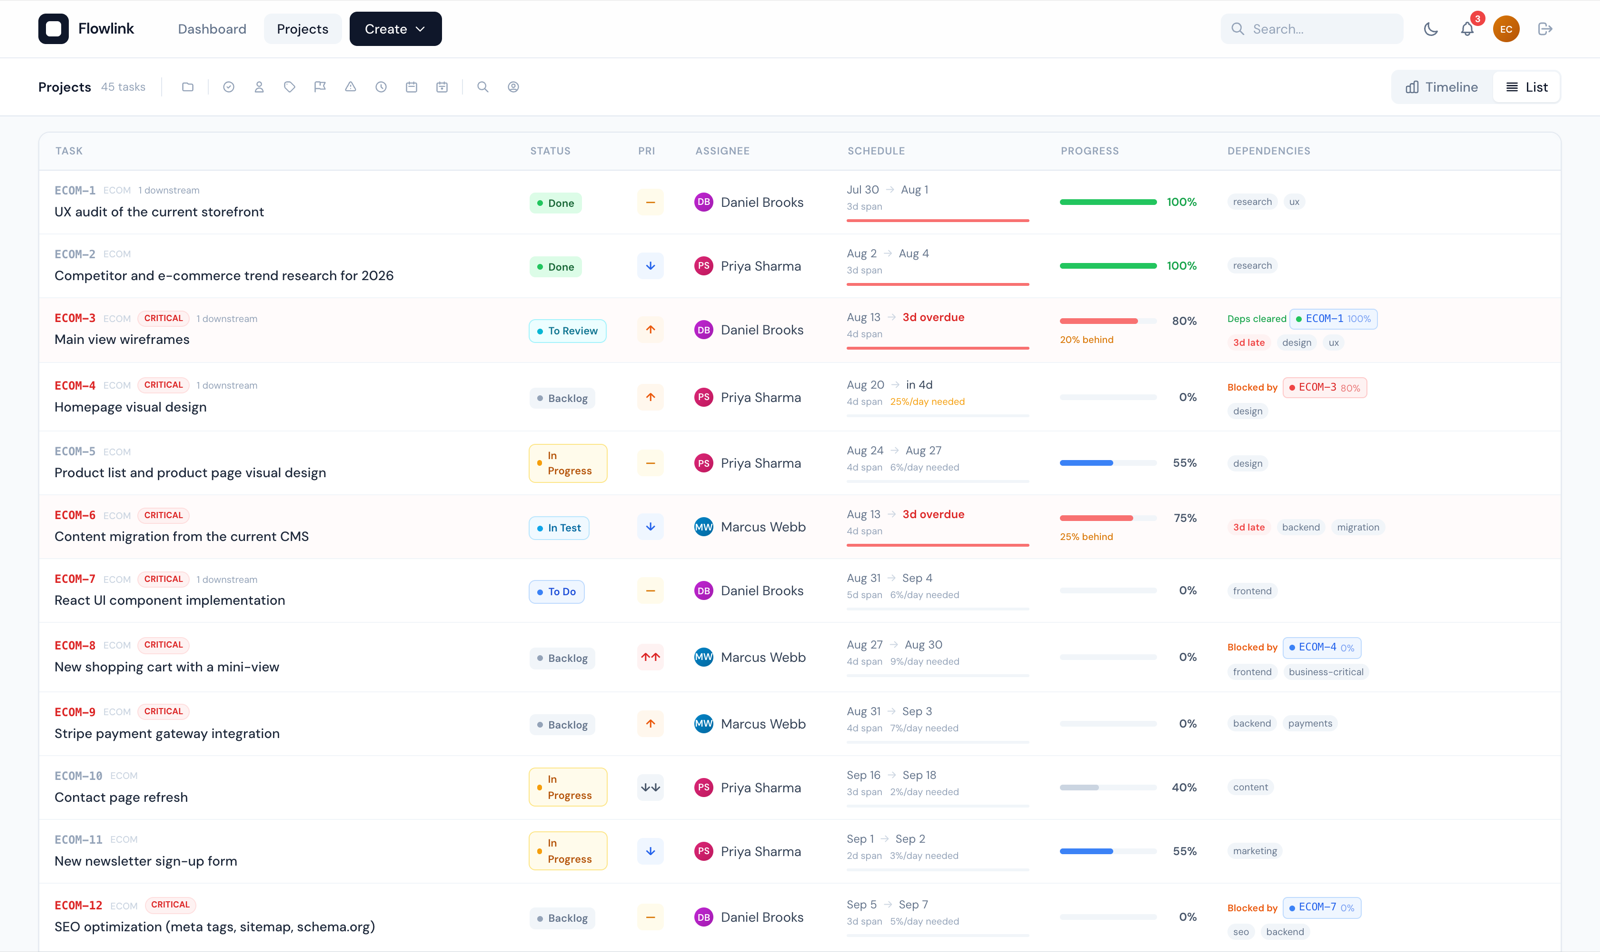
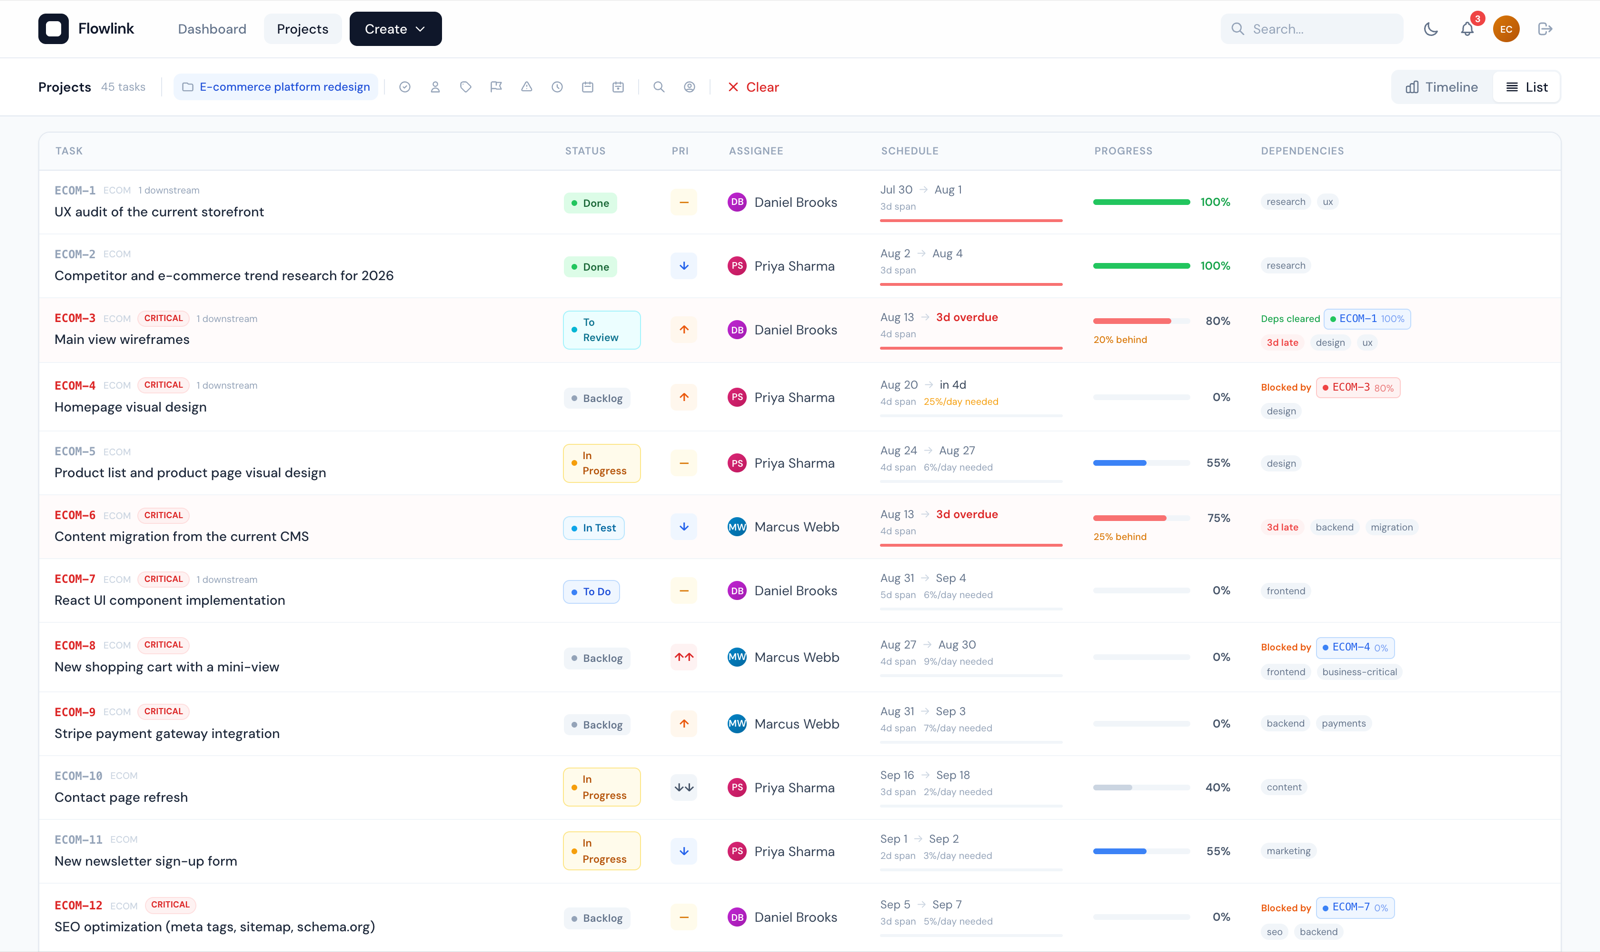
docs: filter the timeline/list screenshots to a single project
The previous timeline crop wasted most of its height on a collapsed
second project row, leaving barely any of the actual Gantt visible.
Using the app's project filter (?projectKey=ECOM) instead shows one
project at full height with no other rows competing for space, so the
whole dependency chain and both in-progress tasks are visible.

diff --git a/README.md b/README.md
@@ -5,8 +5,8 @@
 ![FlowLink dashboard: three projects, critical/delayed/at-risk counts, and analytics charts](docs/screenshots/dashboard.png)
 *Dashboard — portfolio-wide risk counts and per-project progress at a glance.*
 
-![Gantt timeline before optimization: a dependency chain with two overdue tasks flagged, alongside a task that is still comfortably on schedule](docs/screenshots/timeline.png)
-*Gantt timeline — dependency chains and overdue tasks in red, work that still has slack in blue.*
+![Gantt timeline filtered to one project: a dependency chain with overdue tasks flagged in red, alongside tasks that are still comfortably on schedule in blue](docs/screenshots/timeline.png)
+*Gantt timeline, filtered to one project — dependency chains and overdue tasks in red, work that still has slack in blue.*
 
 ![Schedule optimization result: 17 resource conflicts resolved to 0, delayed tasks and their dependencies shifted to ghost-bar suggestions](docs/screenshots/schedule-optimizer.png)
 *Schedule optimizer — one run resolves all 17 resource conflicts; ghost bars show the proposed shift.*
